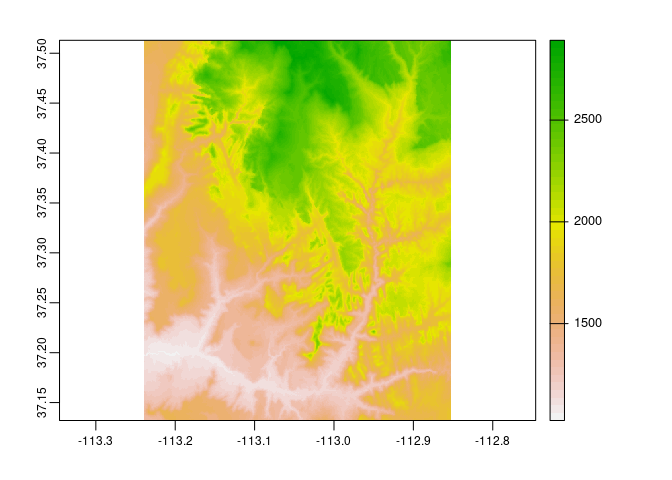
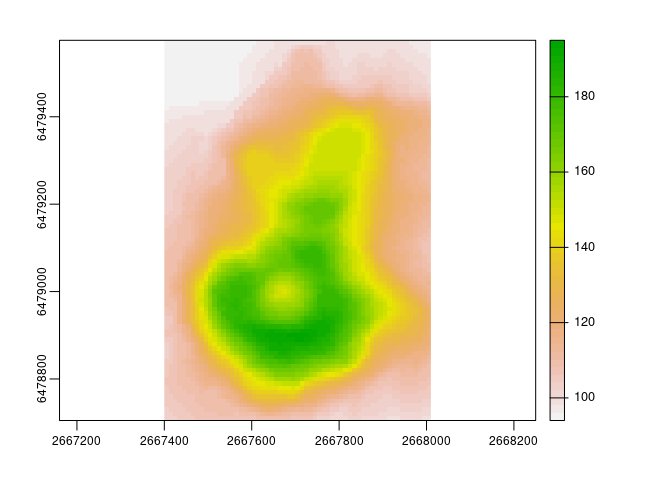
updates the readme

diff --git a/README.md b/README.md
@@ -35,28 +35,36 @@ remotes::install_github("Nowosad/supercells")
 ``` r
 library(supercells)
 library(terra)
-#> terra version 1.1.17
+#> terra version 1.2.10
 library(sf)
 #> Linking to GEOS 3.8.1, GDAL 3.1.4, PROJ 6.3.2
-srtm = rast(system.file("raster/srtm.tif", package = "spDataLarge"))
-plot(srtm)
+vol = rast(system.file("raster/volcano.tif", package = "supercells"))
+plot(vol)
 ```
 
 <img src="man/figures/README-unnamed-chunk-2-1.png" width="100%" />
 
 ``` r
-srtm_slic1 = supercells(srtm, k = 500, compactness = 1)
-plot(srtm)
-plot(st_geometry(srtm_slic1), add = TRUE, lwd = 0.2)
+vol_slic1 = supercells(vol, k = 50, compactness = 1)
+plot(vol)
+plot(st_geometry(vol_slic1), add = TRUE, lwd = 0.2)
 ```
 
 <img src="man/figures/README-unnamed-chunk-3-1.png" width="100%" />
 
 ``` r
-srtm_slic2 = supercells(srtm, k = 500, compactness = 1, dist_fun = "euclidean", 
+vol_slic2 = supercells(vol, k = 50, compactness = 1, dist_fun = "euclidean", 
                         clean = FALSE, iter = 10)
-plot(srtm)
-plot(st_geometry(srtm_slic2), add = TRUE, lwd = 0.2)
+plot(vol)
+plot(st_geometry(vol_slic2), add = TRUE, lwd = 0.2)
 ```
 
 <img src="man/figures/README-unnamed-chunk-4-1.png" width="100%" />
+
+## Contribution
+
+Contributions to this package are welcome - let me know if you need
+other distance measures or transformations, have any suggestions, or
+spotted a bug. The preferred method of contribution is through a GitHub
+pull request. Feel also free to contact us by creating [an
+issue](https://github.com/nowosad/supercells/issues).
